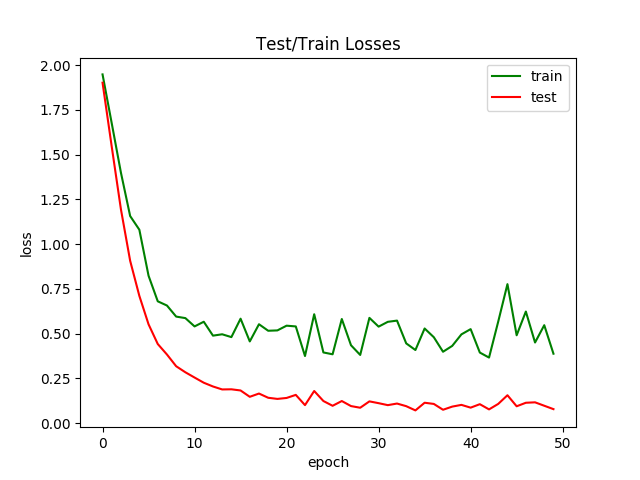
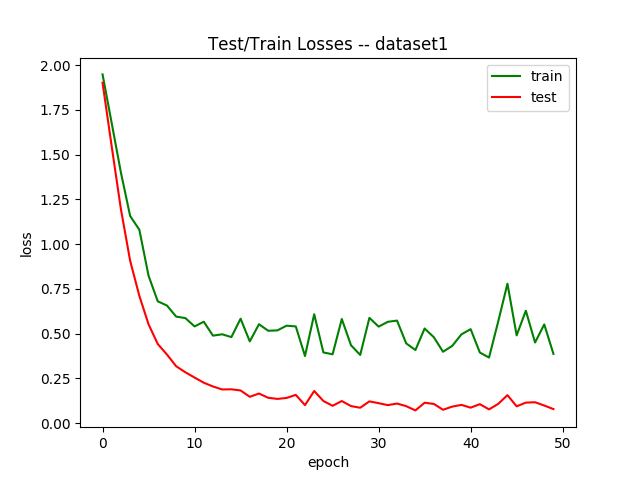
dataset2 image added

Changed region(s): [[0.3125, 0.0625, 0.6875, 0.125], [0.8125, 0.6562, 0.8438, 0.6875]]

diff --git a/scripts/pipeline.py b/scripts/pipeline.py
@@ -387,6 +387,6 @@ if __name__ == '__main__':
         plt.plot(x, best_stats['test_losses'], 'r', label='test')
         plt.xlabel('epoch')
         plt.ylabel('loss')
-        plt.title('Test/Train Losses')
+        plt.title('Test/Train Losses -- {}'.format(args.dataset_name))
         plt.legend()
         plt.show()

diff --git a/README.md b/README.md
@@ -59,27 +59,34 @@ skills of tuning a neural network with configurable parameters
 
 | dataset | capacity (epoch x layers x units) | batch\_size | optimizer | regularization | accuracy (tr/vl/ts) | ratio (acc. to computation) | best accuracy |
 |:--------:|:---------------------------------:|:----------:|:--------:|:--------------:|:--------:|:--------------------:|:-------------:|
-| dataset1 | 6 x 2 x 48 | 64 | SGD (lr=2e-4) | None | 89.69 / 88.00 / 91.60 | 26.39 | 99.20 (48 epochs) |
-| dataset2 | 7 x 4 x 128 | 512 | Adam (lr=1e-4)| L2 (decay=0.1) | 85.34 / 86.42 / 87.49 | 23.75 | 96.11 (47 epochs) |
+| dataset1 | 6 x 2 x 48 | 64 | SGD (lr=2e-4) | L2 (decay=0.1) | 89.69 / 88.00 / 91.60 | 26.39 | 99.20 (48 epochs) |
+| dataset2 | 2 x 4 x 128 | 512 | Adam (lr=1e-4)| L2 (decay=0.1) | 86.52 / 88.93 / 89.80 | 25.39 | 95.76 (50 epochs) |
 | dataset3 | 10 x 2 x 256 | 512 | SGD (lr=3.5e-3) | L2 (decay=0.2) | 97.23 / 76.45 / 77.80 | 15.92 | 84.99 (48 epochs) |
 | dataset4 | 5 x 4 x 64 | 64 | SGD (lr=5.9e-5) | L2 (decay=0.1) | 72.88 / 70.34 / 71.39 | 20.30 | 80.31 (47 epochs) |
 
 #### Losses
 
-![Dataset 1][losses-dataset1]
+<img src="https://github.com/romanegloo/ma721_mnist_classifier/blob/master/dataset1.png?raw=true" alt="Losses of Dataset 1" style="width:350px;"/>
+<img src="https://github.com/romanegloo/ma721_mnist_classifier/blob/master/dataset2.png?raw=true" alt="Losses of Dataset 2" style="width:350px;"/>
+<img src="https://github.com/romanegloo/ma721_mnist_classifier/blob/master/dataset3.png?raw=true" alt="Losses of Dataset 3" style="width:350px;"/>
+<img src="https://github.com/romanegloo/ma721_mnist_classifier/blob/master/dataset4.png?raw=true" alt="Losses of Dataset 4" style="width:350px;"/>
+
 ### Usage
 
 run a model with specific settings:
+
 ```
 python3 scripts/pipeline.py --dataset-name dataset3 --num-hidden-layers 2 --num-hidden-units 256 --batch-size 128 --optimizer sgd --learning-rate 1e-3 --weight-init xavier_normal --weight-decay .5
 ```
 
 random search for optimal settings:
+
 ```
 python3 scripts/pipeline.py --dataset-name dataset3 --num-random-models 50 --weight-init xavier_normal --weight-decay .3 --early-stop
 ```
 
 all options
+
 ```
 usage: MNIST Handwritten Digits Classifier [-h] [--num-epochs NUM_EPOCHS]
                                            [--batch-size BATCH_SIZE]
@@ -173,5 +180,3 @@ General:
   --plot-losses         plot train/test losses to epochs (default: False)
   --log-file            write logging on a file (default: False)
 ```
-
-[losses-dataset1]: https://github.com/adam-p/markdown-here/raw/master/src/common/images/icon48.png "Losses Dataset 1"
